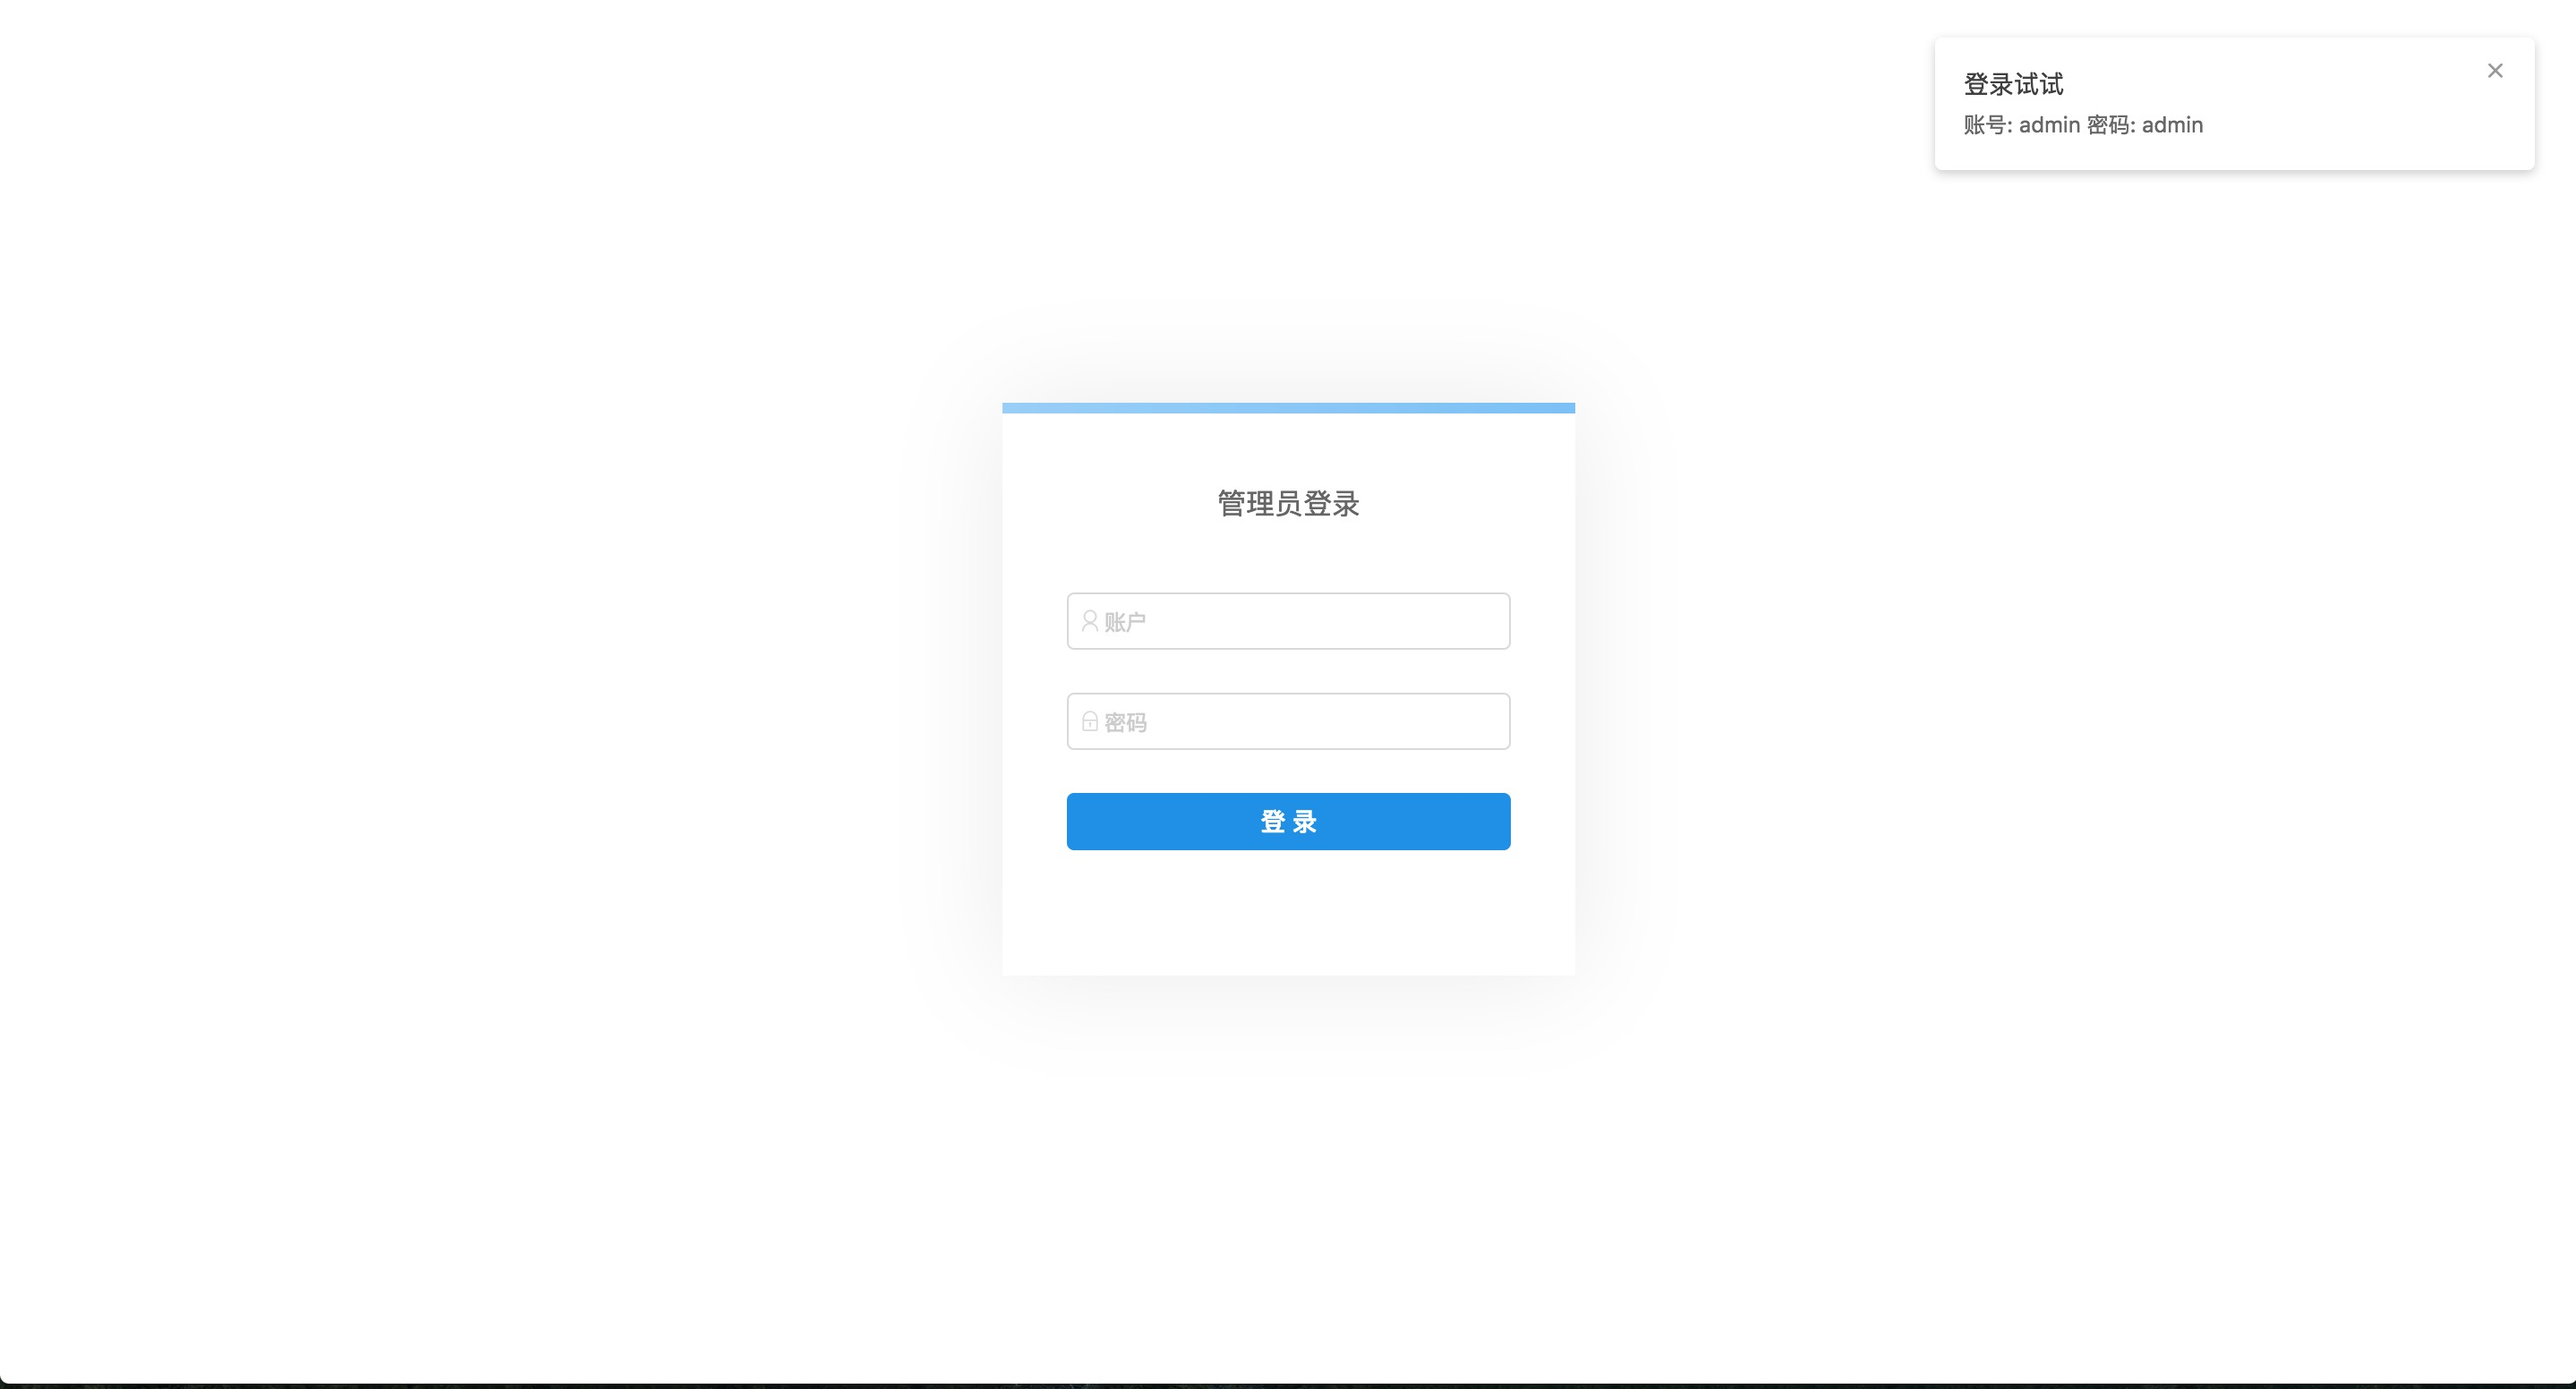
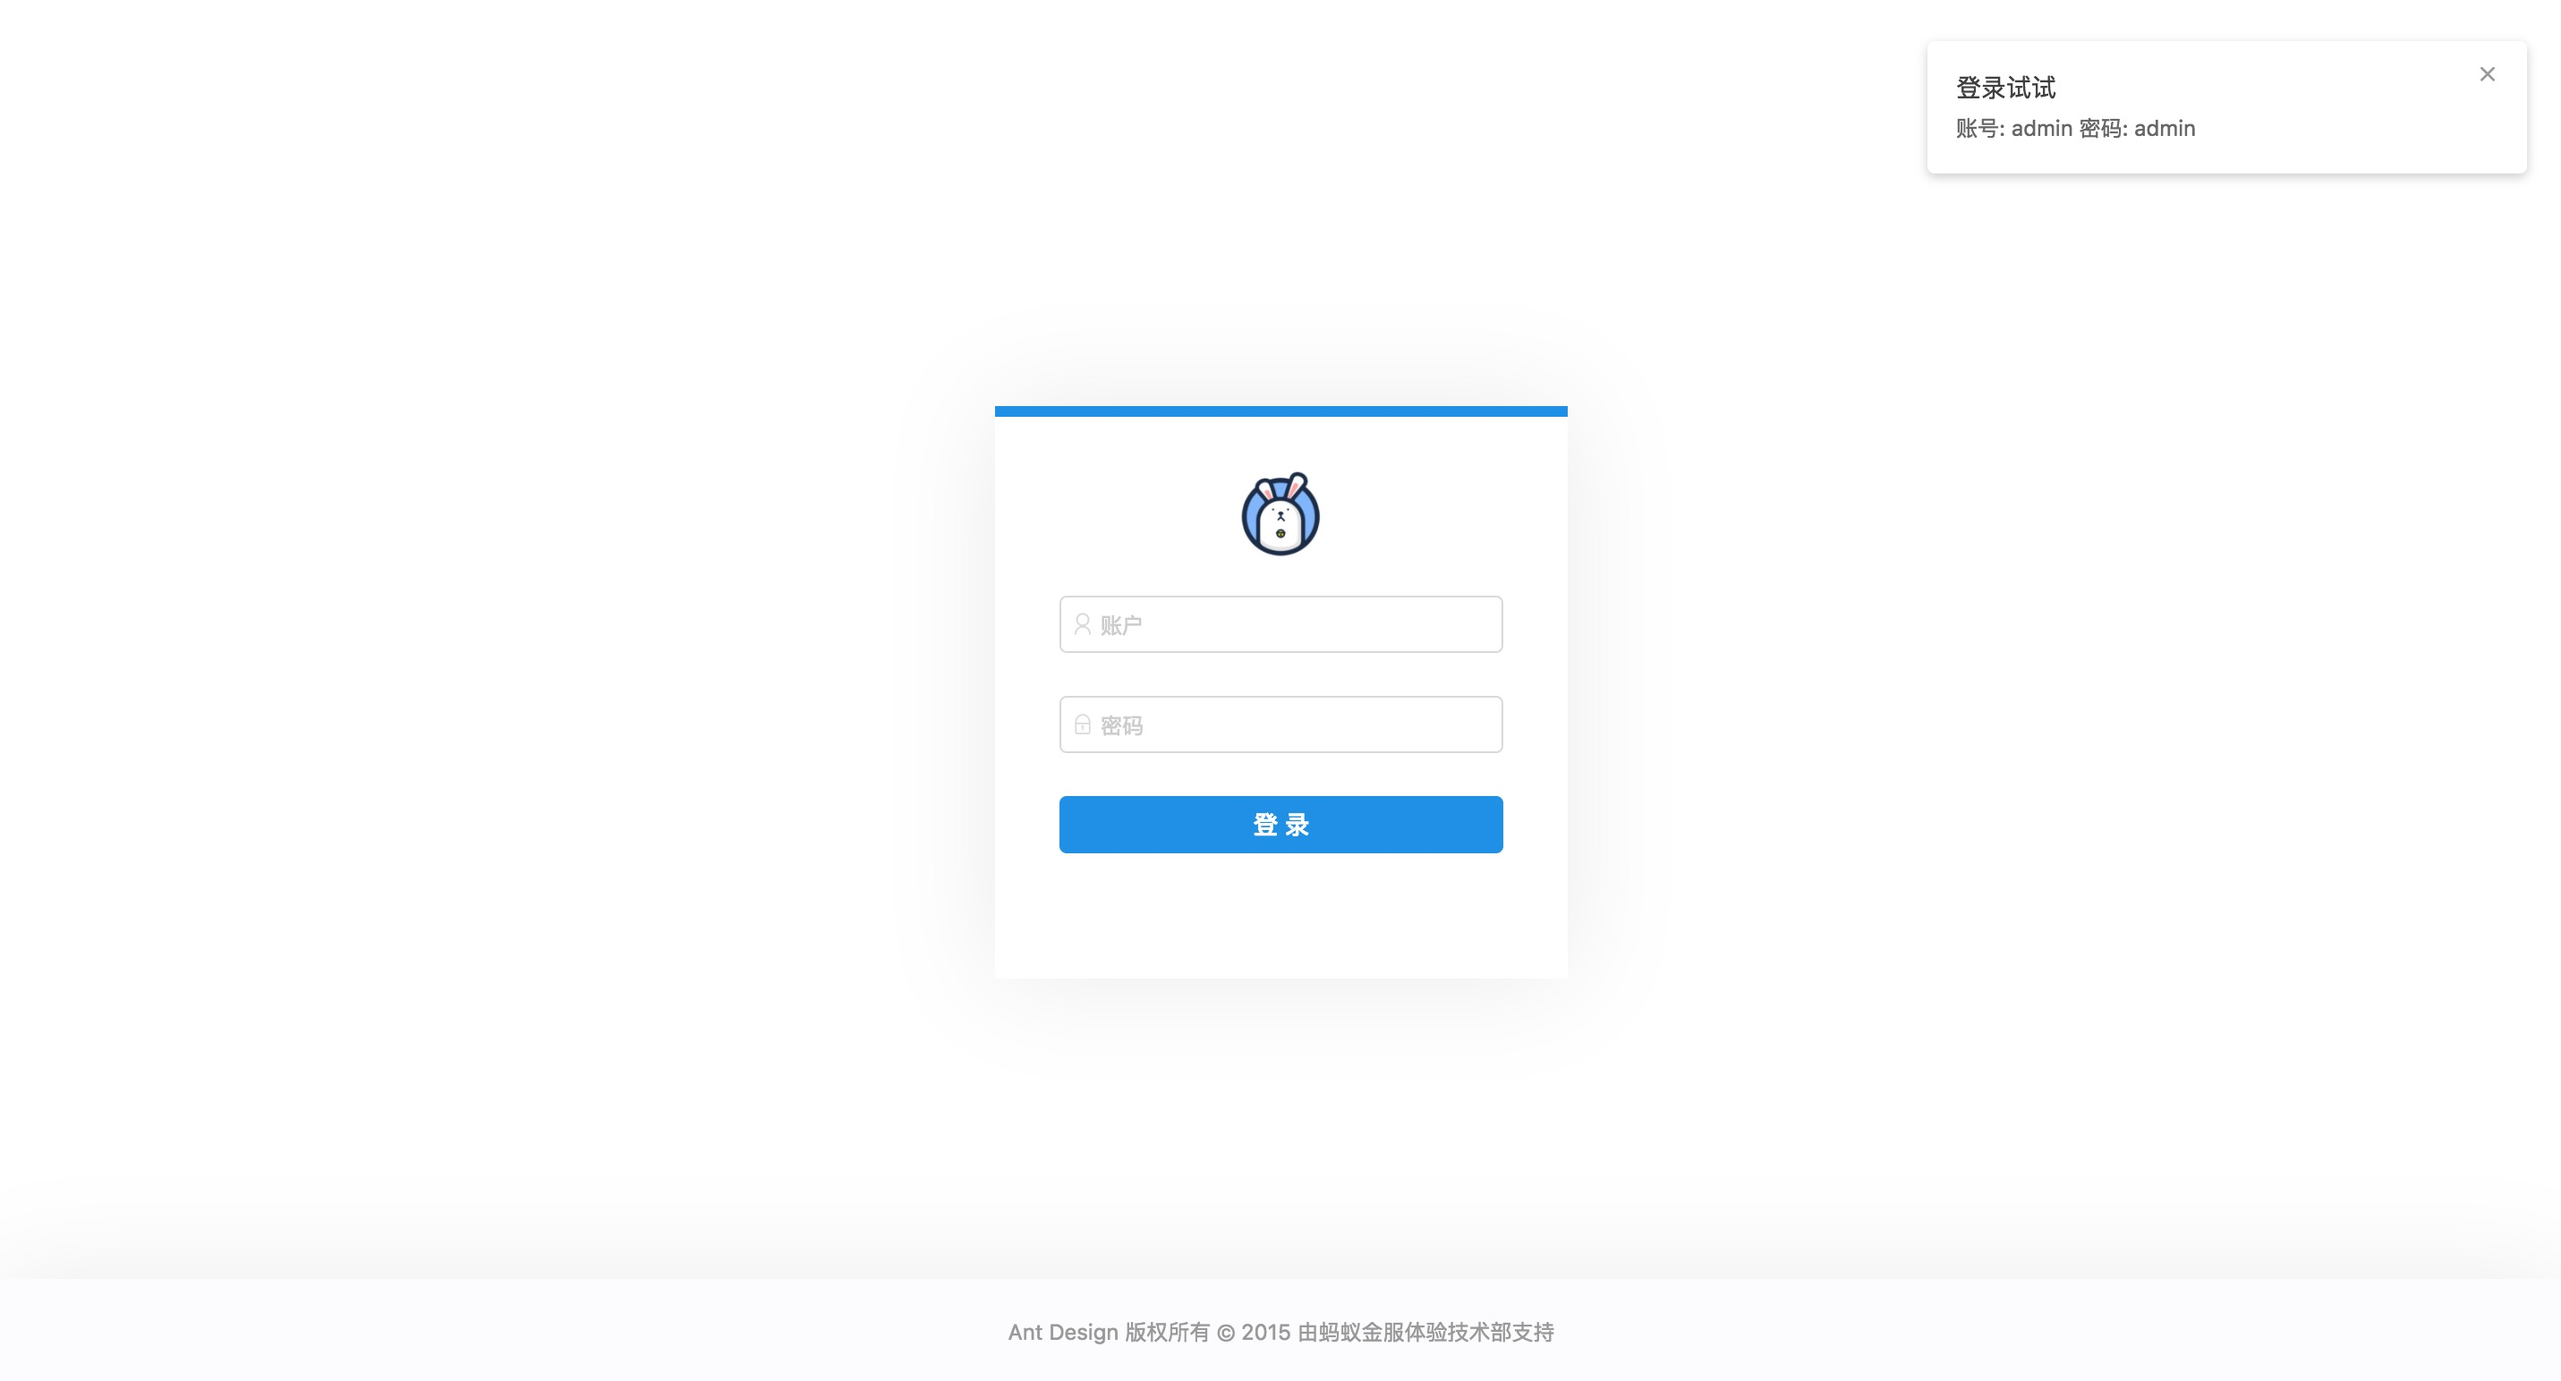
change ui

diff --git a/src/components/layout/login.less b/src/components/layout/login.less
@@ -1,16 +1,3 @@
-@keyframes gradient {
-  0% {
-    background-position: 0% 50%;
-  }
-  50% {
-    background-position: 100% 50%;
-  }
-  100% {
-    background-position: 0% 50%;
-  }
-}
-
-
 .container {
     width: 100%;
     height: 100%;
@@ -36,12 +23,11 @@
         left: 0;
         width: 100%;
         height: 6px;
-        background: linear-gradient(270deg, #2196f3, #9acffa);
+        background: #108ee9;
         background-size: 400% 400%;
-        animation: gradient 2s ease infinite;
     }
     input {
-        padding-left: 20px;
+        padding-left: 22px;
     }
     button {
         width: 100%;
@@ -71,3 +57,15 @@
     }
 }
 
+.copyright {
+    text-align: center;
+    line-height: 60px;
+    position: fixed;
+    bottom: 0;
+    left: 0;
+    right: 0;
+    background-color: #fcfcfd;
+    margin: 0;
+    color: #999;
+    box-shadow: 0 0 100px rgba(0, 0, 0, 0.08);
+}

diff --git a/src/components/layout/login.js b/src/components/layout/login.js
@@ -4,7 +4,7 @@ import styles from './login.less';
 
 import { Button, Form, Input, Icon, notification } from 'antd'
 const FormItem = Form.Item
-
+import logo from '../../assets/logo1.jpg';
 
 const args = {
     message: '登录试试',
@@ -31,7 +31,7 @@ const Login = ({ logining, form, onLogin }) => {
       <div className={styles.container}>
         <div className={styles.box}>
         <div className={styles.title}>
-            <span>管理员登录</span>
+            <img src={logo} width="50"/>
         </div>
         <Form horizontal onSubmit={handleSubmit}>
             <FormItem hasFeedback>
@@ -67,6 +67,7 @@ const Login = ({ logining, form, onLogin }) => {
             </FormItem>
         </Form>
         </div>
+        <p className={styles.copyright}>Ant Design 版权所有 © 2015 由蚂蚁金服体验技术部支持</p>
     </div>
   )
 }

diff --git a/src/components/layout/sider.js b/src/components/layout/sider.js
@@ -1,6 +1,6 @@
 import React from 'react';
 import styles from './sider.less';
-import logo from '../../assets/logo.png';
+import logo from '../../assets/logo1.jpg';
 import classnames from 'classnames';
 
 import { Menu, Icon } from 'antd';
